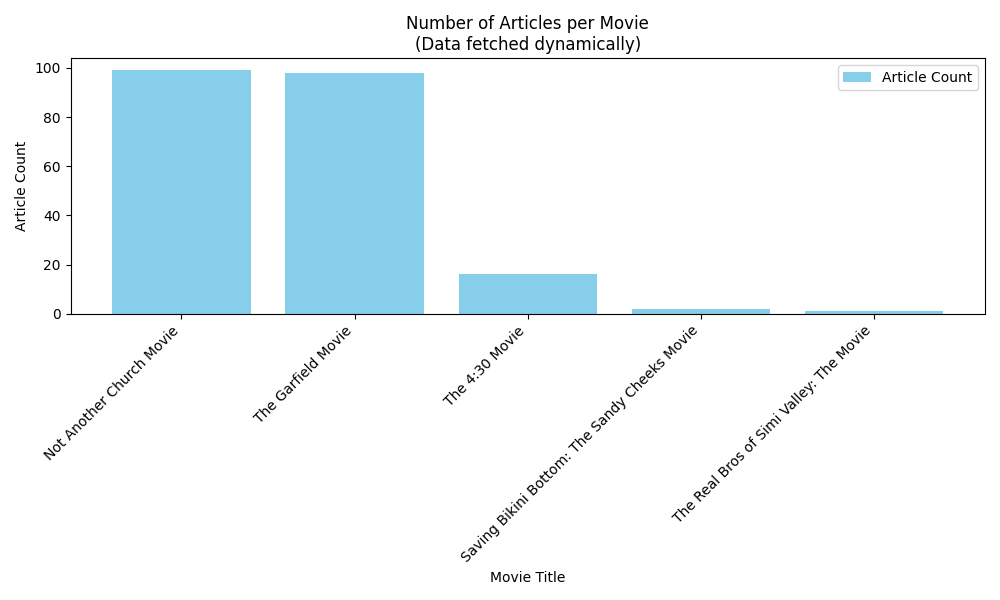
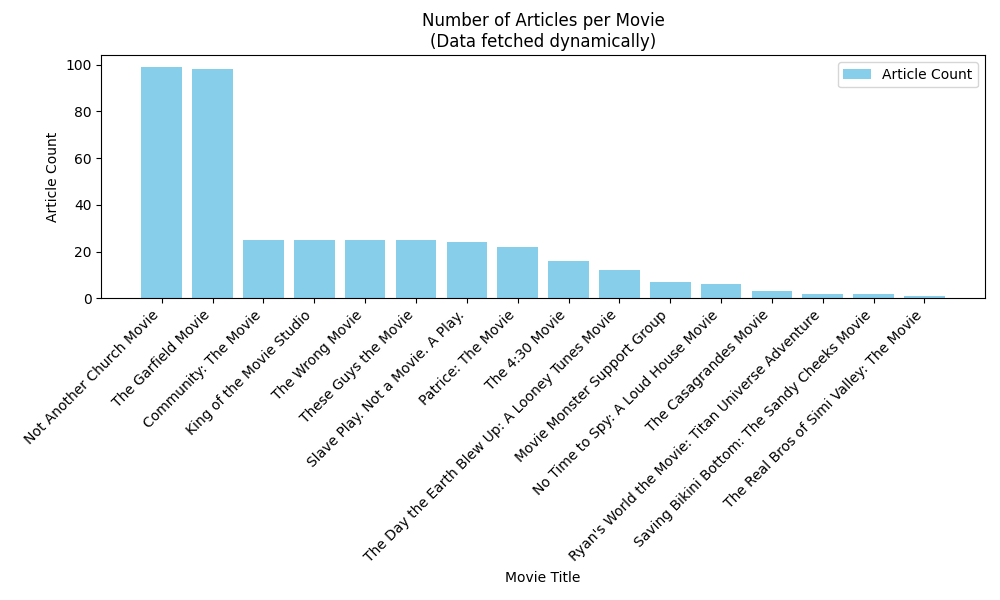
Updated movie.db and visualizations

diff --git a/news.py b/news.py
@@ -1,6 +1,5 @@
 import sqlite3
 import requests
-import csv
 import matplotlib.pyplot as plt
 import json
 import os
@@ -21,46 +20,31 @@ def setup_articles_table(db_name):
     """
     path = os.path.dirname(os.path.abspath(__file__))
     conn = sqlite3.connect(os.path.join(path, db_name))
-<<<<<<< HEAD
-    cur = conn.cursor
-=======
     cur = conn.cursor()
->>>>>>> 9eefe8a7f3d4ef9951ecd2dce72bb3ba39625fa5
     try:
         cursor = conn.cursor()
         cur.execute("""
             CREATE TABLE IF NOT EXISTS Articles (
                 id INTEGER PRIMARY KEY AUTOINCREMENT,
                 movie_title TEXT,
-                    
-                
+                article_title TEXT,
+                source_name TEXT,
                 published_date TEXT,
                 article_content TEXT,
                 movie_id INTEGER,
                 UNIQUE(movie_title, article_title, published_date)
-<<<<<<< HEAD
-=======
                 FOREIGN KEY (movie_id) REFERENCES Movies(id)
->>>>>>> 9eefe8a7f3d4ef9951ecd2dce72bb3ba39625fa5
             )
         """
         )
         conn.commit()
     except sqlite3.Error as e:
         print(f"Error setting up Articles table: {e}")
-<<<<<<< HEAD
-    return conn, cur
-
-
-# Fetch and store articles from NewsAPI
-def fetch_articles(cur, conn, fetch_limit=25):
-=======
     return cur, conn
 
 
 # Fetch and store articles from NewsAPI
 def fetch_articles(cur,conn, fetch_limit=25):
->>>>>>> 9eefe8a7f3d4ef9951ecd2dce72bb3ba39625fa5
 
     """
     Fetches articles related to a specific movie title from NewsAPI and stores them in the database.
@@ -81,59 +65,12 @@ def fetch_articles(cur,conn, fetch_limit=25):
         'User-Agent': 'NewsAPI-Client/1.0',  # Add a user-agent for identification
         'Accept': 'application/json'         # Specify that the response should be JSON
     }
-<<<<<<< HEAD
-    cur.execute("""SELECT id, title
-                FROM Movies
-=======
     cur.execute("""SELECT id, title 
                 FROM Movies 
->>>>>>> 9eefe8a7f3d4ef9951ecd2dce72bb3ba39625fa5
                 WHERE year = 2024
                 AND Movies.title NOT IN (SELECT Articles.movie_title FROM Articles)""")
     movies = cur.fetchall()
     if not movies:
-<<<<<<< HEAD
-            print("No movies from 2024 found in the database.")
-            return
-    
-    print("Fetching soundtracks for movies from 2024...")
-
-    for id, movie_title in movies:
-            while total_articles < fetch_limit:
-                print(f"Fetching articles for '{movie_title}', Page: {page}")
-                params = {
-                'q': movie_title,
-                'apiKey': API_KEY,
-                'pageSize': PAGE_SIZE,
-                'page': page
-            }
-
-            try:
-                response = requests.get(BASE_URL, params=params, headers=headers)
-                if response.status_code != 200:
-                    print(f"Error fetching articles for '{movie_title}':
-            {response.status_code}")
-                    break
-            articles = response.json().get("articles", [])
-            if not articles:
-                print(f"No more articles found for '{movie_title}'.")
-                break
-
-            
-            for article in articles:
-                article_title = article.get("title", "").strip()
-                source_name = article.get("source", {}).get("name", "").strip()
-                published_date = article.get("publishedAt", "").strip()
-                article_content = article.get("content", "").strip()
-
-                cur.execute("""
-                SELECT COUNT(*) FROM Articles
-                WHERE movie_title = ? AND article_title = ? AND published_date = ?;
-            """, (movie_title, article_title, published_date))
-                   
-                if cur.fetchone()[0] > 0:
-                    continue
-=======
         print("No movies from 2024 found in the database.")
         return
 
@@ -173,78 +110,26 @@ def fetch_articles(cur,conn, fetch_limit=25):
                 """, (movie_title, article_title, published_date))
                     if cur.fetchone()[0] > 0:
                         continue
->>>>>>> 9eefe8a7f3d4ef9951ecd2dce72bb3ba39625fa5
 
                     try:
                         cur.execute("""
                         INSERT OR IGNORE INTO Articles (movie_title, article_title, source_name, published_date, article_content)
                         VALUES (?, ?, ?, ?, ?)
-<<<<<<< HEAD
-                    """, (movie_title, article_title, source_name, published_date, article_content)
-                    total_articles += 1
-                    print(f"Inserted: {article_title}")
-                except sqlite3.Error as e:
-                    print(f"Error inserting article: {e}")
-=======
                         """, (movie_title, article_title, source_name, published_date, article_content))
                         total_articles += 1
                         print(f"Inserted: {article_title}")
                         conn.commit()
                     except sqlite3.Error as e:
                         print(f"Error inserting article: {e}")
->>>>>>> 9eefe8a7f3d4ef9951ecd2dce72bb3ba39625fa5
 
                 page += 1
             except requests.exceptions.RequestException as e:
                 print(f"Network error while fetching articles for '{movie_title}': {e}")
                 break
 
-#Analyze article counts per movie
-def analyze_article_counts(cur,conn):
-    """
-    Analyzes the number of articles for each movie.
-
-    Returns:
-    - results (list of tuples): Each tuple contains the movie title and its article count.
-    """
-    try:
-        cur.execute("""
-            SELECT movie_title, COUNT(*) as article_count
-            FROM Articles
-            GROUP BY movie_title
-            ORDER BY article_count DESC;
-        """)
-        return cur.fetchall()
-    except sqlite3.Error as e:
-        print(f"Error analyzing article counts: {e}")
-        return []
-    
-
-#Perform database join and analysis
-def analyze_joined_data(cur,conn):
-    """
-    Joins the Movies and Articles tables to analyze data.
-    Returns:
-    - results (list of tuples): Each tuple contains the movie title, IMDb rating, and article count.
-    """
-    try:
-        
-        cur.execute("""
-            SELECT Movies.title, Movies.imdb_rating, COUNT(Articles.id) as article_count
-            FROM Movies 
-            JOIN Articles  ON Movies.title = Articles.movie_title
-            GROUP BY Movies.title
-            ORDER BY article_count DESC;
-        """)
-        results = cur.fetchall()
-        return results
-    except sqlite3.Error as e:
-        print(f"Error analyzing joined data: {e}")
-        return []
-
 
 #Create visualizations
-def create_visualizations(article_counts, joined_data):
+def articles_per_movie_chart(cur):
     """
     Creates visualizations for article counts and joined data.
     
@@ -252,6 +137,13 @@ def create_visualizations(article_counts, joined_data):
     - article_counts (lists of tuples): Article counts per movie.
     - joined_data (list of tuples): Joined data including IMDb ratings and article counts.
     """
+    cur.execute("""
+            SELECT movie_title, COUNT(*) as article_count
+            FROM Articles
+            GROUP BY movie_title
+            ORDER BY article_count DESC;
+        """)
+    article_counts = cur.fetchall()
     # Bar chart: Articles per movie
     movie_titles = [row[0] for row in article_counts]
     counts = [row[1] for row in article_counts]
@@ -267,6 +159,16 @@ def create_visualizations(article_counts, joined_data):
     plt.savefig("articles_per_movie.png")
     plt.show()
 
+
+def imdb_ratings_and_articles(cur):
+    cur.execute("""
+            SELECT Movies.title, Movies.imdb_rating, COUNT(Articles.id) as article_count
+            FROM Movies 
+            JOIN Articles  ON Movies.title = Articles.movie_title
+            GROUP BY Movies.title
+            ORDER BY article_count DESC;
+        """)
+    joined_data = cur.fetchall()
     # Scatter plot: IMDb rating vs. article count
     movie_titles = [row[0] for row in joined_data]
     imdb_ratings = [row[1] for row in joined_data]
@@ -291,11 +193,10 @@ def main():
     db_name = "movies.db"
     cur,conn = setup_articles_table(db_name)
     fetch_articles(cur, conn, fetch_limit=25)
+    
     #Analyze and visualize data
-    article_counts = analyze_article_counts(cur, conn)
-    joined_data = analyze_joined_data(cur,conn)
-
-    create_visualizations(article_counts, joined_data)
+    articles_per_movie_chart(cur)
+    imdb_ratings_and_articles(cur)
     conn.close()
 
 if __name__ == "__main__":
